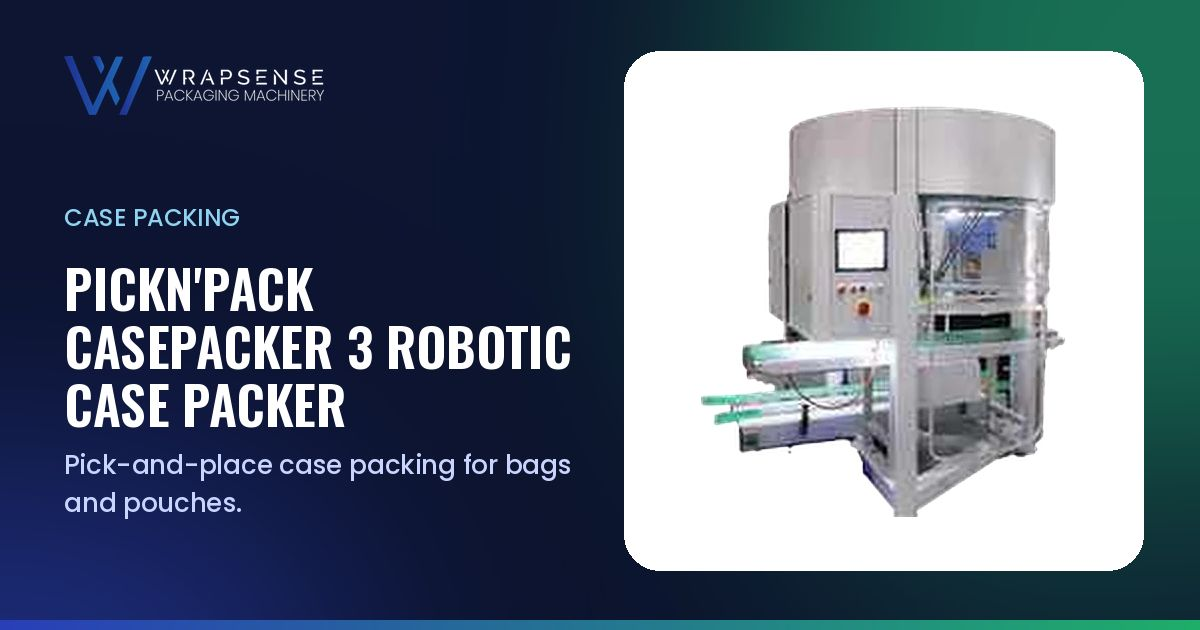
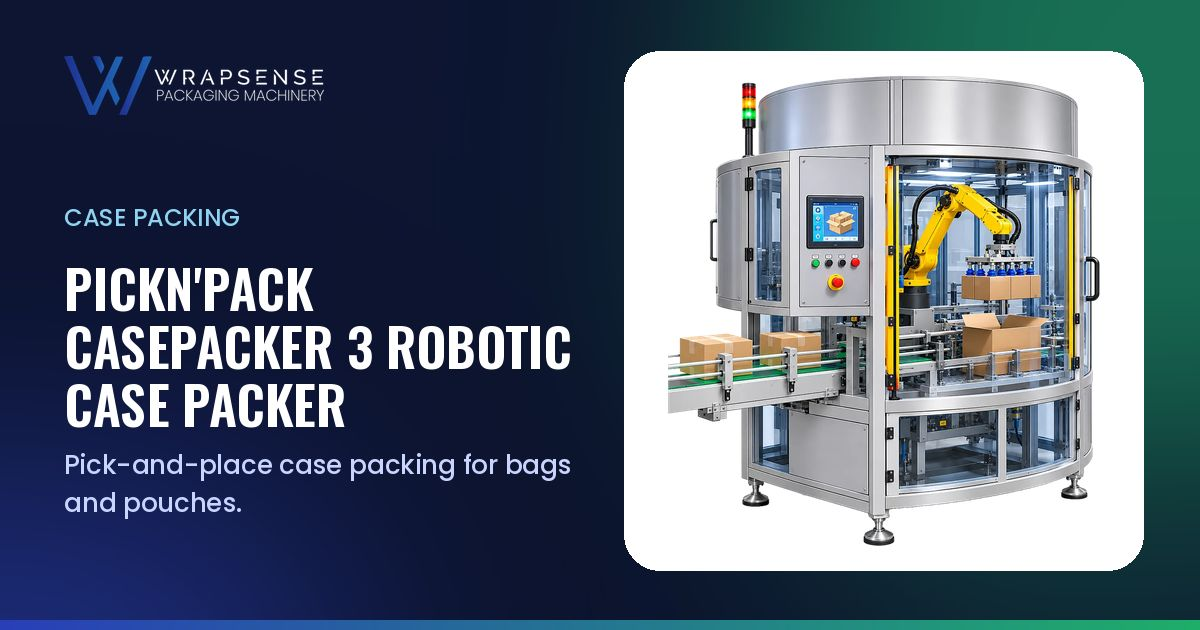
PickN'Pack CasePacker 3: new render; blurry gallery photos removed
- New robotic case packer render cut out from white (AI-mask-guided; glass enclosure, robot arm and
  cases stay; floor shadow removed); WebP with alpha; same filename; OG image regenerated
- Gallery: removed the blurry case-packing-action and case-packing-line video stills; case-packing-line
  deleted and dropped from the catalog extraction script (case-packing-action is still used by the other
  PickN'Pack product)

Claude-Session: https://claude.ai/code/session_01QFn2KCFGMPNr5c9DCf1rvZ

Changed region(s): [[0.555, 0.1206, 0.925, 0.8746]]

diff --git a/tools/extract-catalog-images.py b/tools/extract-catalog-images.py
@@ -38,7 +38,7 @@ MAP = {
   # photos
   0:('photos','film-line','photo'), 3:('photos','filling-closeup','photo'), 4:('photos','technician','photo'),
   123:('photos','weigher-snacks','photo'), 125:('photos','weigher-install','photo'), 128:('photos','vffs-install','photo'),
-  206:('photos','case-packing-action','photo'), 204:('photos','case-packing-line','photo'), 251:('photos','weigher-detail','photo'),
+  206:('photos','case-packing-action','photo'), 251:('photos','weigher-detail','photo'),
 }
 
 tmp = tempfile.mkdtemp()
